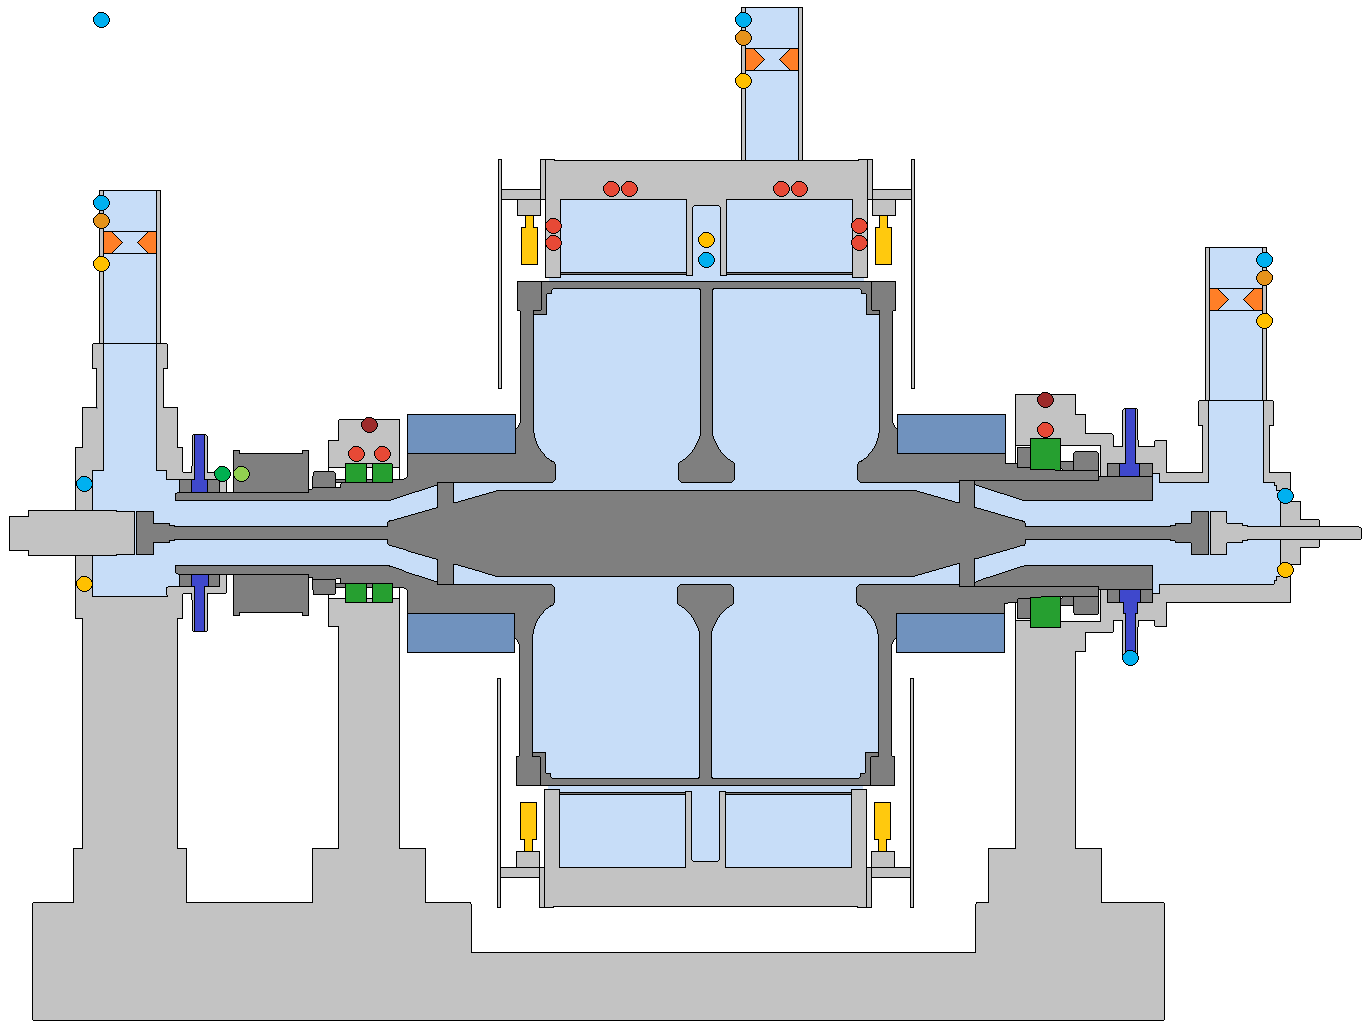
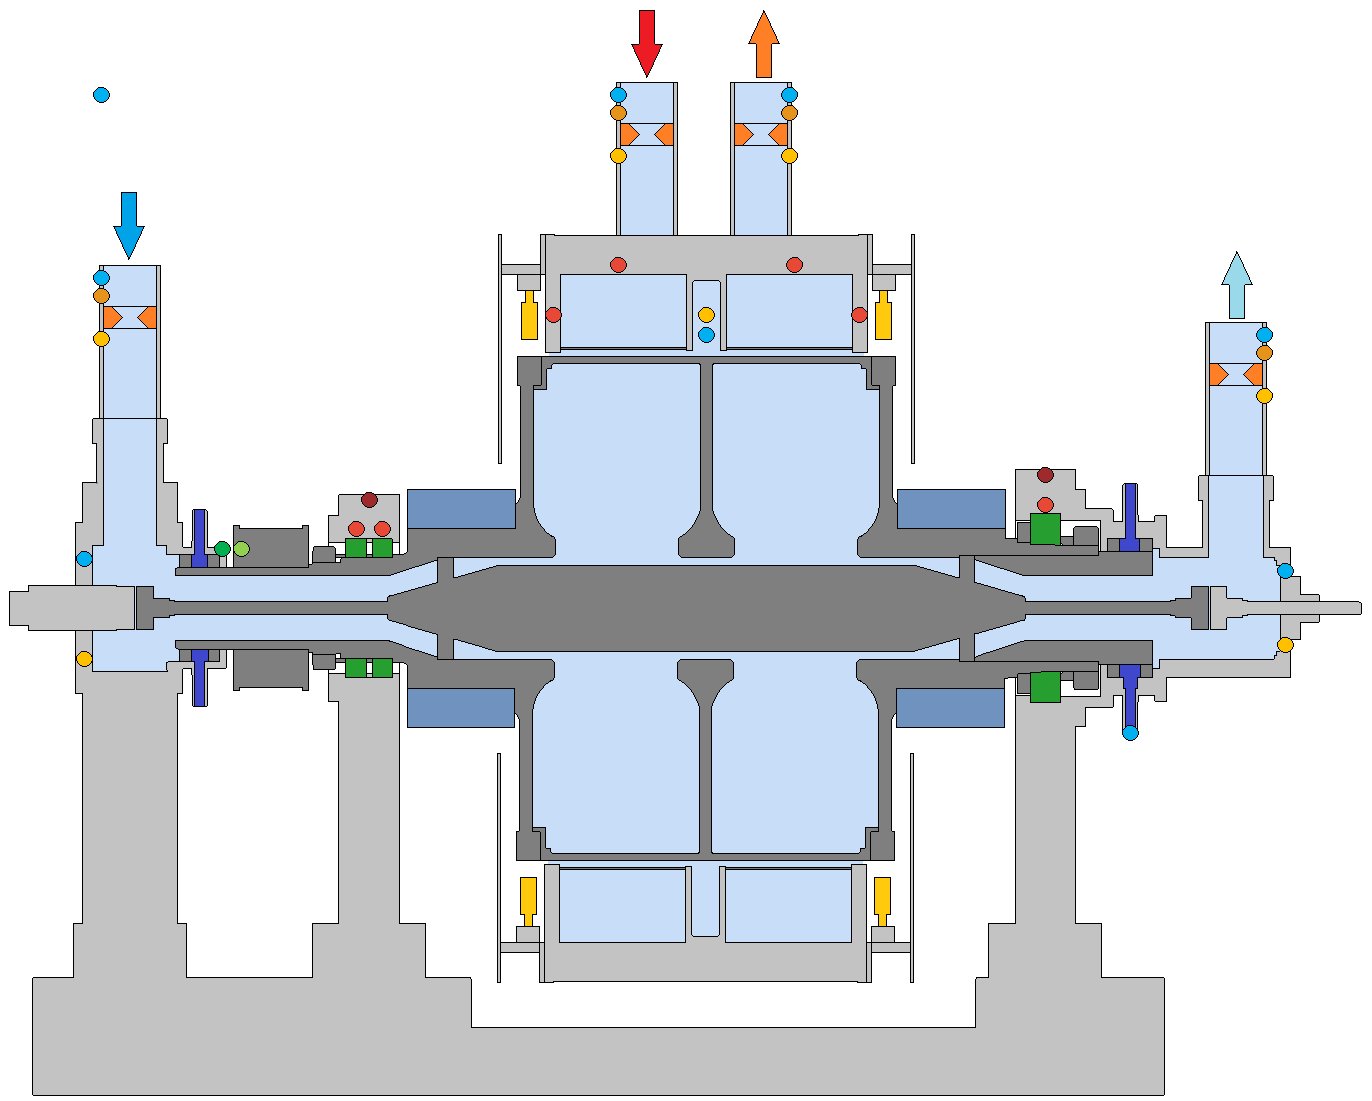
Changed res/Pictures/Betriebsmesstechnik _Messstellen.png to actual piping plan

diff --git a/WindowBetriebsmesstechnik.py b/WindowBetriebsmesstechnik.py
@@ -171,51 +171,53 @@ class WindowBetriebsmesstechnik(AbstractWindow):
         backgroundLabel = QLabel(msWidget)
         backgroundLabel.move(60, 80)
         backgroundLabel.setScaledContents(True)
-        backgroundLabel.setFixedSize(800,600)
+        b = 800
+        h = 600
+        backgroundLabel.setFixedSize(b,h)
         pixmap = QPixmap('res\\pics\\Betriebsmesstechnik _Messstellen.png')
         backgroundLabel.setPixmap(pixmap)
         
 
         self.graphicalMeasurements = []
-        self.graphicalMeasurements.append(GraphicalMeasurement(msWidget,   0,  50, "UUID", "TLRT", "°C", "LTE"))
-        self.graphicalMeasurements.append(GraphicalMeasurement(msWidget,   0, 130, "UUID", "TLSBL9", "°C", "LTE"))
-        self.graphicalMeasurements.append(GraphicalMeasurement(msWidget,   0, 180, "UUID", "DDSBL9", "kPa", "DD"))
-        self.graphicalMeasurements.append(GraphicalMeasurement(msWidget,   0, 230, "UUID", "DSBL9", "bar", "DA"))
-        self.graphicalMeasurements.append(GraphicalMeasurement(msWidget,   0, 310, "UUID", "TLSA", "bar", "LTE"))
-        self.graphicalMeasurements.append(GraphicalMeasurement(msWidget,   0, 405, "UUID", "DSA", "bar", "DA"))
+        self.graphicalMeasurements.append(GraphicalMeasurement(msWidget,   0,  50, "UUID",          "TLRT", "°C", "LTE"))
+        self.graphicalMeasurements.append(GraphicalMeasurement(msWidget,   0, 130, "UUID",          "TLSBL9", "°C", "LTE"))
+        self.graphicalMeasurements.append(GraphicalMeasurement(msWidget,   0, 180, "UUID",          "DDSBL9", "kPa", "DD"))
+        self.graphicalMeasurements.append(GraphicalMeasurement(msWidget,   0, 230, "UUID",          "DSBL9", "bar", "DA"))
+        self.graphicalMeasurements.append(GraphicalMeasurement(msWidget,   0, 310, "UUID",          "TLSA", "bar", "LTE"))
+        self.graphicalMeasurements.append(GraphicalMeasurement(msWidget,   0, 405, "G16.1_PC3_0",   "DSA", "bar", "DA"))
 
-        self.graphicalMeasurements.append(GraphicalMeasurement(msWidget, 152, 250, "UUID", "RPM", "rpm", "RPM"))
-        self.graphicalMeasurements.append(GraphicalMeasurement(msWidget, 152, 200, "UUID", "TSA2", "°C", "TE"))
-        self.graphicalMeasurements.append(GraphicalMeasurement(msWidget, 152, 150, "UUID", "TSA1", "°C", "TE"))
-        self.graphicalMeasurements.append(GraphicalMeasurement(msWidget, 152, 100, "G16.1_SPI_6", "SWA", "mm/s", "SWS"))
+        self.graphicalMeasurements.append(GraphicalMeasurement(msWidget, 152, 250, "UUID",          "RPM", "rpm", "RPM"))
+        self.graphicalMeasurements.append(GraphicalMeasurement(msWidget, 152, 200, "UUID",          "TSA2", "°C", "TE"))
+        self.graphicalMeasurements.append(GraphicalMeasurement(msWidget, 152, 150, "UUID",          "TSA1", "°C", "TE"))
+        self.graphicalMeasurements.append(GraphicalMeasurement(msWidget, 152, 100, "G16.1_SPI_6",   "SWA", "mm/s", "SWS"))
 
-        self.graphicalMeasurements.append(GraphicalMeasurement(msWidget, 247, 250, "G16.1_SPI_0", "GTARA2", "°C", "TE"))
-        self.graphicalMeasurements.append(GraphicalMeasurement(msWidget, 247, 200, "UUID", "GTARA1", "°C", "TE"))
-        self.graphicalMeasurements.append(GraphicalMeasurement(msWidget, 247, 150, "G16.1_SPI_2", "LTKR", "°C", "LTE"))
+        self.graphicalMeasurements.append(GraphicalMeasurement(msWidget, 247, 250, "G16.1_SPI_0",   "GTARA2", "°C", "TE"))
+        self.graphicalMeasurements.append(GraphicalMeasurement(msWidget, 247, 200, "UUID",          "GTARA1", "°C", "TE"))
+        self.graphicalMeasurements.append(GraphicalMeasurement(msWidget, 247, 150, "G16.1_SPI_2",   "LTKR", "°C", "LTE"))
 
-        self.graphicalMeasurements.append(GraphicalMeasurement(msWidget, 285,  50, "G16.1_SPI_1", "GTMRaA", "°C", "TE"))
-        self.graphicalMeasurements.append(GraphicalMeasurement(msWidget, 285, 100, "UUID", "GTMRbA", "°C", "TE"))
+        self.graphicalMeasurements.append(GraphicalMeasurement(msWidget, 285,  50, "G16.1_SPI_1",   "GTMRaA", "°C", "TE"))
+        self.graphicalMeasurements.append(GraphicalMeasurement(msWidget, 285, 100, "UUID",          "GTMRbA", "°C", "TE"))
 
-        self.graphicalMeasurements.append(GraphicalMeasurement(msWidget, 380,   0, "UUID", "TLSBL1", "°C", "LTE"))
-        self.graphicalMeasurements.append(GraphicalMeasurement(msWidget, 380,  50, "UUID", "DDSBL1", "kPa", "DD"))
-        self.graphicalMeasurements.append(GraphicalMeasurement(msWidget, 380, 100, "UUID", "DSBL1", "bar", "DA"))
+        self.graphicalMeasurements.append(GraphicalMeasurement(msWidget, 380,   0, "UUID",          "TLSBL1", "°C", "LTE"))
+        self.graphicalMeasurements.append(GraphicalMeasurement(msWidget, 380,  50, "UUID",          "DDSBL1", "kPa", "DD"))
+        self.graphicalMeasurements.append(GraphicalMeasurement(msWidget, 380, 100, "UUID",          "DSBL1", "bar", "DA"))
 
-        self.graphicalMeasurements.append(GraphicalMeasurement(msWidget, 530,  50, "G16.1_SPI_3", "GTMRaB", "°C", "TE"))
-        self.graphicalMeasurements.append(GraphicalMeasurement(msWidget, 530, 100, "UUID", "GTMRbB", "°C", "TE"))
+        self.graphicalMeasurements.append(GraphicalMeasurement(msWidget, 530,  50, "G16.1_SPI_3",   "GTMRaB", "°C", "TE"))
+        self.graphicalMeasurements.append(GraphicalMeasurement(msWidget, 530, 100, "UUID",          "GTMRbB", "°C", "TE"))
 
-        self.graphicalMeasurements.append(GraphicalMeasurement(msWidget, 585, 250, "G16.1_SPI_4", "GTARB2", "°C", "TE"))
-        self.graphicalMeasurements.append(GraphicalMeasurement(msWidget, 585, 200, "UUID", "GTARB1", "°C", "TE"))
-        self.graphicalMeasurements.append(GraphicalMeasurement(msWidget, 585, 150, "UUID", "LPKR", "°C", "DA"))
+        self.graphicalMeasurements.append(GraphicalMeasurement(msWidget, 585, 250, "G16.1_SPI_4",   "GTARB2", "°C", "TE"))
+        self.graphicalMeasurements.append(GraphicalMeasurement(msWidget, 585, 200, "UUID",          "GTARB1", "°C", "TE"))
+        self.graphicalMeasurements.append(GraphicalMeasurement(msWidget, 585, 150, "G16.1_PC3_2",   "LPKR", "°C", "DA"))
 
-        self.graphicalMeasurements.append(GraphicalMeasurement(msWidget, 670, 200, "UUID", "TSB1", "°C", "TE"))
-        self.graphicalMeasurements.append(GraphicalMeasurement(msWidget, 670, 250, "G16.1_SPI_7", "SWB", "mm/s", "SWS"))
-        self.graphicalMeasurements.append(GraphicalMeasurement(msWidget, 690, 470, "G16.1_SPI_5", "TOelZu", "°C", "LTE"))
+        self.graphicalMeasurements.append(GraphicalMeasurement(msWidget, 670, 200, "UUID",          "TSB1", "°C", "TE"))
+        self.graphicalMeasurements.append(GraphicalMeasurement(msWidget, 670, 250, "G16.1_SPI_7",   "SWB", "mm/s", "SWS"))
+        self.graphicalMeasurements.append(GraphicalMeasurement(msWidget, 690, 470, "G16.1_SPI_5",   "TOelZu", "°C", "LTE"))
 
-        self.graphicalMeasurements.append(GraphicalMeasurement(msWidget, 820, 130, "UUID", "TLSBL3", "°C", "LTE"))
-        self.graphicalMeasurements.append(GraphicalMeasurement(msWidget, 820, 180, "UUID", "DDSBL3", "kPa", "DD"))
-        self.graphicalMeasurements.append(GraphicalMeasurement(msWidget, 820, 230, "UUID", "DSBL3", "bar", "DA"))
-        self.graphicalMeasurements.append(GraphicalMeasurement(msWidget, 820, 320, "UUID", "TLSB", "bar", "LTE"))
-        self.graphicalMeasurements.append(GraphicalMeasurement(msWidget, 820, 390, "UUID", "DSB", "bar", "DA"))
+        self.graphicalMeasurements.append(GraphicalMeasurement(msWidget, 820, 130, "UUID",          "TLSBL3", "°C", "LTE"))
+        self.graphicalMeasurements.append(GraphicalMeasurement(msWidget, 820, 180, "UUID",          "DDSBL3", "kPa", "DD"))
+        self.graphicalMeasurements.append(GraphicalMeasurement(msWidget, 820, 230, "UUID",          "DSBL3", "bar", "DA"))
+        self.graphicalMeasurements.append(GraphicalMeasurement(msWidget, 820, 320, "UUID",          "TLSB", "bar", "LTE"))
+        self.graphicalMeasurements.append(GraphicalMeasurement(msWidget, 820, 390, "G16.1_PC3_1",   "DSB", "bar", "DA"))
 
 
 

diff --git a/WindowTeleTableView.py b/WindowTeleTableView.py
@@ -260,20 +260,20 @@ class WindowTeleTableView(AbstractWindow):
             {"name": "TM56", "UUID": "EcoFlex-TeleB_PAD4_6", "unit": "K"}]
         
         self.list_IW_TE = [
-            {"name": "TIW1", "UUID": "EcoFlex-TeleIW_x_0", "unit": "K"}, 
-            {"name": "TIW2", "UUID": "EcoFlex-TeleIW_x_1", "unit": "K"},
-            {"name": "TIW3", "UUID": "EcoFlex-TeleIW_x_2", "unit": "K"}]
+            {"name": "TIW1", "UUID": "EcoFlex-TeleIW_x_0", "unit": "K"},    # TODO: Belegungsplan IW nachtragen
+            {"name": "TIW2", "UUID": "EcoFlex-TeleIW_x_1", "unit": "K"},    # TODO: Belegungsplan IW nachtragen
+            {"name": "TIW3", "UUID": "EcoFlex-TeleIW_x_2", "unit": "K"}]    # TODO: Belegungsplan IW nachtragen
         
         self.list_IW_LTE = [
-            {"name": "TLIW1", "UUID": "EcoFlex-TeleIW_x_0", "unit": "K"}, 
-            {"name": "TLIW2", "UUID": "EcoFlex-TeleIW_x_1", "unit": "K"},
-            {"name": "TLIW3", "UUID": "EcoFlex-TeleIW_x_2", "unit": "K"},
-            {"name": "TLIW4", "UUID": "EcoFlex-TeleIW_x_3", "unit": "K"}, 
-            {"name": "TLIW5", "UUID": "EcoFlex-TeleIW_x_4", "unit": "K"},
-            {"name": "TLIW6", "UUID": "EcoFlex-TeleIW_x_5", "unit": "K"},
-            {"name": "TLIW7", "UUID": "EcoFlex-TeleIW_x_x", "unit": "K"}, 
-            {"name": "TLIW8", "UUID": "EcoFlex-TeleIW_x_x", "unit": "K"},
-            {"name": "TLIW9", "UUID": "EcoFlex-TeleIW_x_x", "unit": "K"}]
+            {"name": "TLIW1", "UUID": "EcoFlex-TeleIW_x_0", "unit": "K"},   # TODO: Belegungsplan IW nachtragen
+            {"name": "TLIW2", "UUID": "EcoFlex-TeleIW_x_1", "unit": "K"},   # TODO: Belegungsplan IW nachtragen
+            {"name": "TLIW3", "UUID": "EcoFlex-TeleIW_x_2", "unit": "K"},   # TODO: Belegungsplan IW nachtragen
+            {"name": "TLIW4", "UUID": "EcoFlex-TeleIW_x_3", "unit": "K"},   # TODO: Belegungsplan IW nachtragen
+            {"name": "TLIW5", "UUID": "EcoFlex-TeleIW_x_4", "unit": "K"},   # TODO: Belegungsplan IW nachtragen
+            {"name": "TLIW6", "UUID": "EcoFlex-TeleIW_x_5", "unit": "K"},   # TODO: Belegungsplan IW nachtragen
+            {"name": "TLIW7", "UUID": "EcoFlex-TeleIW_x_x", "unit": "K"},   # TODO: Belegungsplan IW nachtragen
+            {"name": "TLIW8", "UUID": "EcoFlex-TeleIW_x_x", "unit": "K"},   # TODO: Belegungsplan IW nachtragen
+            {"name": "TLIW9", "UUID": "EcoFlex-TeleIW_x_x", "unit": "K"}]   # TODO: Belegungsplan IW nachtragen
         
         self.list_A_LTE = [
             {"name": "TLA1", "UUID": "EcoFlex-TeleA_PM1_0", "unit": "K"}, 
